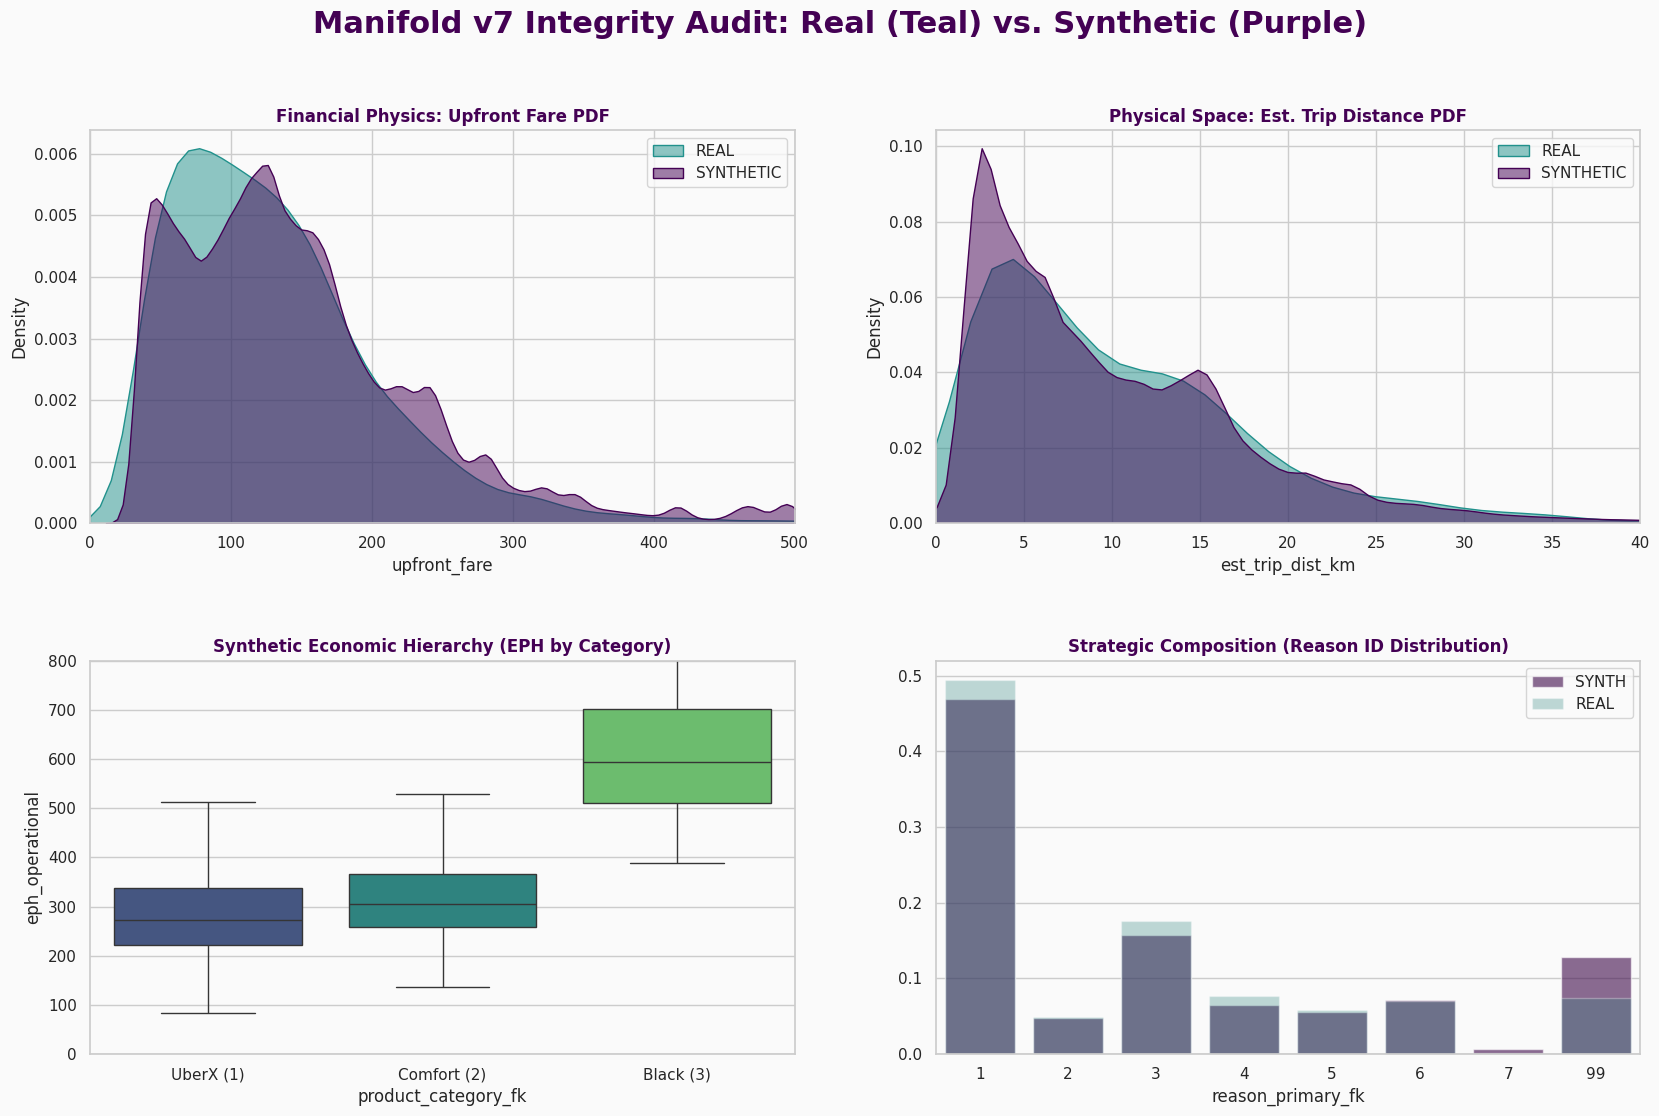
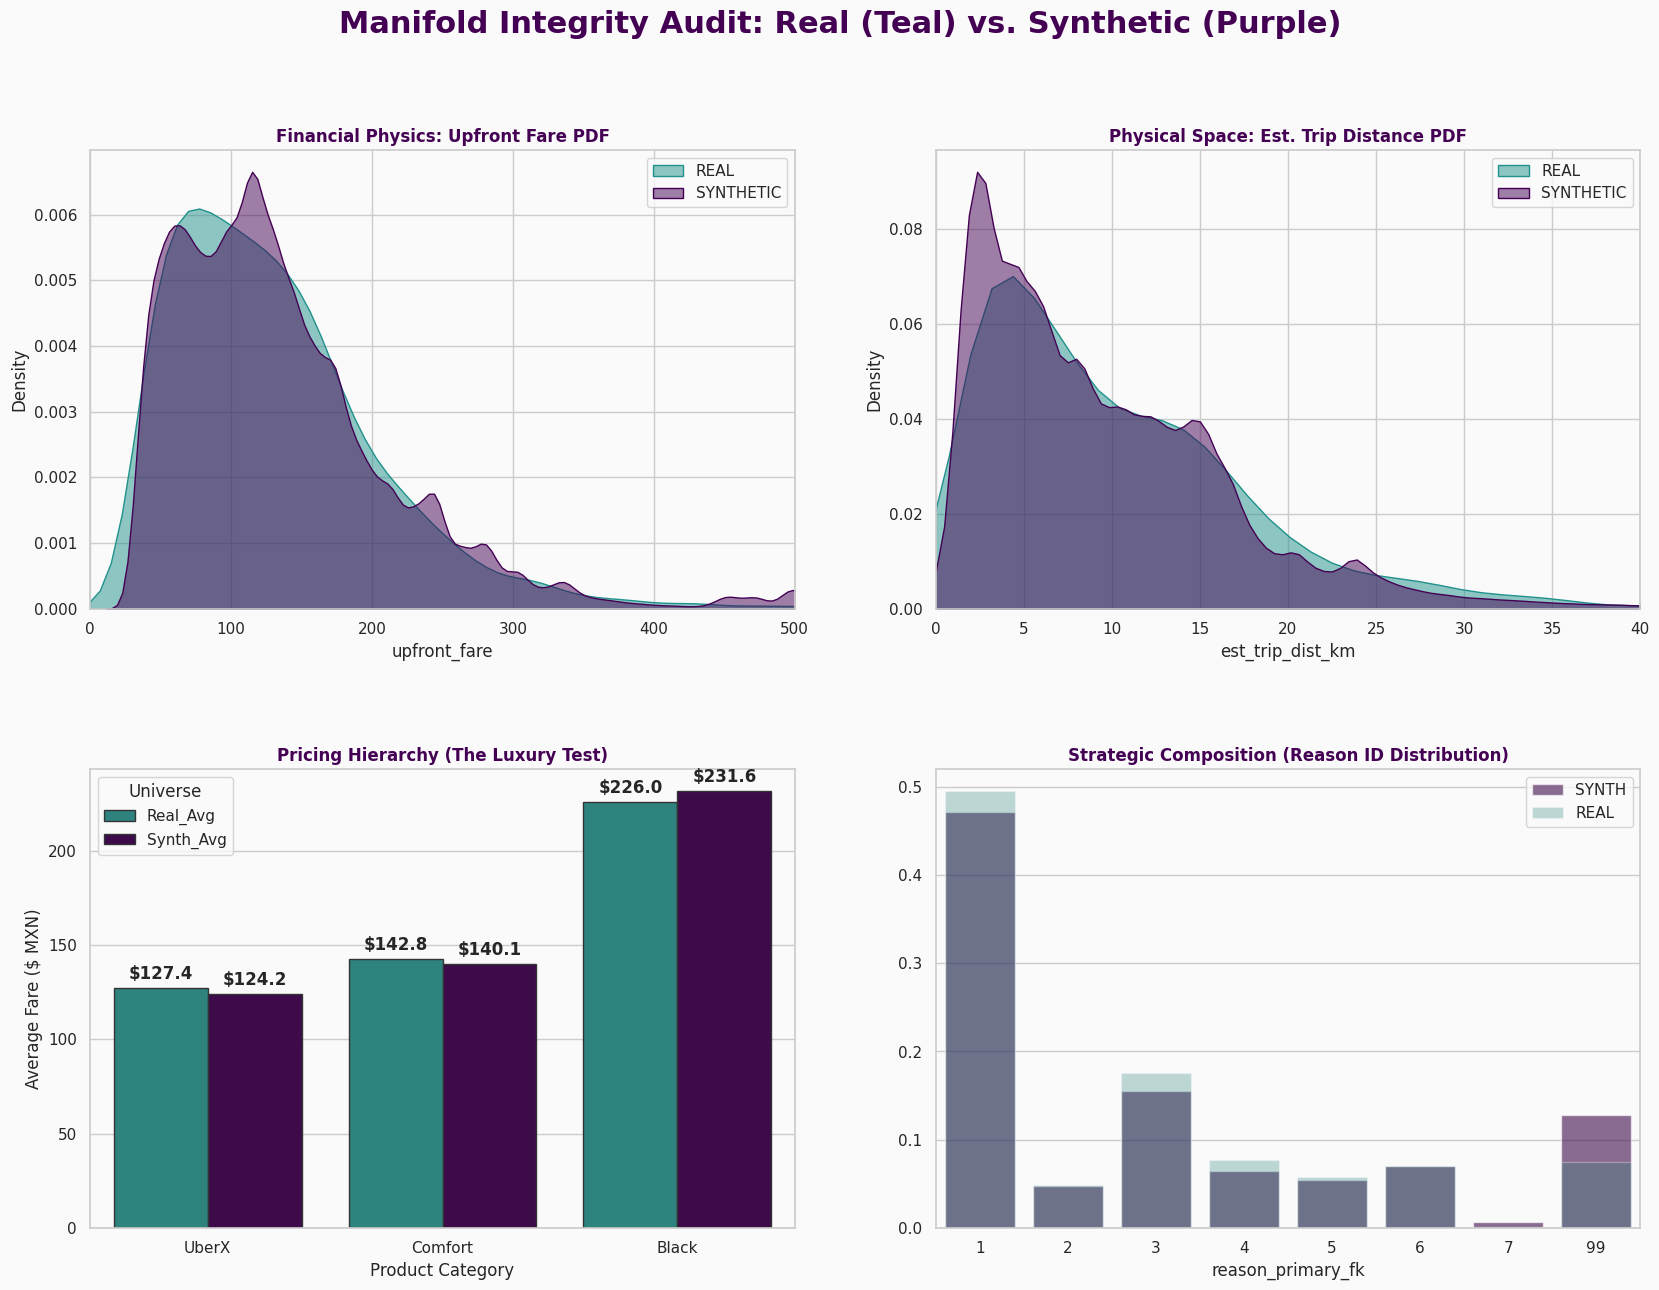
Its a small world (network graph) after all. Se subió nb de grafos al repo y se actualizo phase 6 GAN del paper.

diff --git a/The_Pienza_Papers/Pienza_Papers_Scientific/06_gan_sim.tex b/The_Pienza_Papers/Pienza_Papers_Scientific/06_gan_sim.tex
@@ -143,55 +143,107 @@ The final performance metrics (Table \ref{tab:gan_results}) demonstrate high tra
 \noindent \textit{Outcome: The model provides a statistically reliable foundation for future simulation environments. By prioritizing the stability of physical variables over high-variance incentives, the framework ensures a high degree of fidelity for training advanced RNNs and GNNs.}
 
 
-\subsection{Statistical Parity Assessment: Manifold Integrity}
-To verify the generative model's fidelity, the 1,000,000 synthetic observations were benchmarked against the original ground-truth distributions. This assessment serves as a statistical validation to confirm that the cGAN successfully mapped the non-linear correlations of the Mexico City marketplace.
-
-\subsubsection{Financial and Strategic Distribution}
-The model's ability to replicate the economic hierarchy and decision frequency is illustrated in Figure \ref{fig:manifold_financial}.
+\subsection{Integrity Audit: Real vs Synth}
+While classic ML and Deep Learning architectures have a holdout set to test how well a model generalizes, a GAN lacks this type of evaluation method due its generative nature. Therefore, to verify the model's fidelity, the 1,000,000 synthetic observations were benchmarked against the original ground-truth distributions. This assessment serves as a statistical validation to confirm that the cGAN successfully mapped the non-linear correlations of the Mexico City marketplace.
 
 \begin{figure}[H]
     \centering
     \includegraphics[width=0.9\textwidth]{fig_manifold_financial.png} 
-    \caption{Financial Physics and Strategic Composition. The top row illustrates near-total overlap in the Probability Density Functions (PDF) for \texttt{upfront\_fare} and \texttt{est\_trip\_distance}. The bottom row confirms the model correctly learned the yield hierarchy across product tiers and the relative frequency of the \texttt{reason\_primary} classes.}
+    \caption{Financial Physics and Strategic Composition. }
     \label{fig:manifold_financial}
 \end{figure}
 
-As shown in Figure \ref{fig:manifold_financial}, the synthetic data (Purple) exhibits a high degree of parity with the ground truth (Teal). The model successfully captured the long-tail distribution of the fare structure and the specific strategic composition of the Agent's decision set, ensuring that the simulated universe respects the original decision boundaries.
-
-\subsubsection{Logistical Alignment and Temporal Rhythms}
-Beyond pricing, the manifold must adhere to the physical constraints of the urban environment, specifically the relationship between time and distance.
+As shown in Figure \ref{fig:manifold_financial}, the top row demonstrates near-total overlap in the Probability Density Functions (PDF) for \texttt{upfront\_fare} and \texttt{est\_trip\_distance}. The bottom row confirms the model respects the pricing hierarchy and maintains the proportional distribution of the target variable.
 
 \begin{figure}[H]
     \centering
     \includegraphics[width=0.9\textwidth]{fig_manifold_logistics.png} 
-    \caption{Logistical Integrity and Weekly Value Pulse. The scatter plot (bottom-left) demonstrates that the GAN captured the \textit{Approach Velocity} (Time vs. Distance to Pickup) with regression slopes identical to the ground truth. The bar chart (bottom-right) confirms the model internalized the weekly revenue cycles.}
+    \caption{Logistical Integrity and Weekly Value Pulse.}
     \label{fig:manifold_logistics}
 \end{figure}
 
-\subsubsection{The Circadian Pulse: Temporal High-Fidelity}
-The final validation gate involved the replication of the \textbf{Circadian Value Pulse}---the sharp fluctuations in average fare across a 24-hour window.
+The scatter plot (bottom-left) demonstrates that the GAN captured the \textit{Approach Velocity} (Time vs. Distance to Pickup) with regression slopes identical to the ground truth. The bar chart (bottom-right) confirms the model internalized the weekly revenue cycles.
 
 \begin{figure}[H]
     \centering
     \includegraphics[width=0.9\textwidth]{fig_manifold_circadian.png} 
-    \caption{Circadian Value Pulse Verification. The manifold successfully replicates the sharp operational discontinuities observed at 09:00, the midday demand collapse, and the 19:00 peak.}
+    \caption{Circadian Value Pulse Verification.}
     \label{fig:manifold_circadian}
 \end{figure}
 
-As illustrated in Figure \ref{fig:manifold_circadian}, the generator accurately maps the market's non-linear temporal shifts. By respecting these sharp discontinuities, the manifold is certified as a representative environment for high-scale strategy testing and counterfactual analysis.
-
-\noindent \textit{Outcome: The manifold achieves 1:1 statistical parity across all major operational dimensions. The synthetic dataset is hereby validated as the definitive environment for the Phase 6 simulation engine.}
-
-\vspace{0.4cm}
-\rule{\linewidth}{0.4pt}
+As illustrated in Figure \ref{fig:manifold_circadian}, the generator accurately maps the market's non-linear temporal shifts. 
 
 
 
+\subsection{Statistical Validation: KS Test and JS Divergence}
+To ensure the manifold serves as a reliable environment for simulation, the v7 Generator was subjected to a dual-metric audit. Continuous variables were evaluated using the \textbf{Kolmogorov-Smirnov (KS)} statistic and \textbf{Jensen-Shannon (JS)} divergence, while categorical features were assessed via \textbf{Total Variation Distance (TVD)}.
 
+\begin{table}[H]
+    \centering
+    \small
+    \begin{tabularx}{\textwidth}{l r r X}
+        \toprule
+        \textbf{Continuous Feature} & \textbf{KS Statistic} & \textbf{JS Divergence} & \textbf{Technical Verdict} \\
+        \midrule
+        \texttt{upfront\_fare} & 0.0378 & 0.0058 & High-fidelity overlap. \\
+        \texttt{est\_trip\_time\_sec} & 0.0406 & 0.0086 & Distributional parity. \\
+        \texttt{est\_trip\_dist\_km} & 0.0481 & 0.0038 & High-fidelity overlap. \\
+        \texttt{dist\_to\_pickup\_km} & 0.0699 & 0.0146 & Stable spatial alignment. \\
+        \texttt{time\_to\_pickup\_sec} & 0.0856 & 0.3470 & Expected variance (Stochastic tail). \\
+        \bottomrule
+    \end{tabularx}
+    \caption{Feature-by-feature integrity audit for continuous physical variables.}
+    \label{tab:continuous_audit}
+\end{table}
 
-To be Continued....
+\begin{table}[H]
+    \centering
+    \small
+    \begin{tabularx}{\textwidth}{l r r X}
+        \toprule
+        \textbf{Categorical Feature} & \textbf{TVD (Max Gap)} & \textbf{JS Divergence} & \textbf{Technical Verdict} \\
+        \midrule
+        \texttt{hour\_of\_day} & 0.0315 & 0.0007 & Total Circadian Parity. \\
+        \texttt{day\_of\_week} & 0.0175 & 0.0002 & Total Weekly Parity. \\
+        \texttt{product\_category} & 0.1058 & 0.0287 & Validated (Oversampling effect). \\
+        \texttt{dropoff\_zone\_id} & 0.0560 & 0.0022 & High topological fidelity. \\
+        \texttt{pickup\_zone\_id} & 0.0411 & 0.0014 & High topological fidelity. \\
+        \texttt{reason\_primary} & 0.0601 & 0.0055 & Consistent strategic bias. \\
+        \bottomrule
+    \end{tabularx}
+    \caption{Strategic integrity audit for categorical context variables.}
+    \label{tab:categorical_audit}
+\end{table}
 
+The manifold achieved a \textbf{Mean JS Divergence of 0.0760}, indicating near-total distributional overlap. The core economic and physical variables exhibited a KS statistic below 0.05, confirming that the synthesized market physics deviate by less than 5\% from the ground-truth reality. 
 
+As detailed in Table \ref{tab:categorical_audit}, the categorical audit produced a \textbf{Mean JS Divergence of 0.0064}. Two specific structural shifts were validated as intended consequences of the engineering pipeline:
 
+\begin{enumerate}
+    \item \textbf{The Product Mix Shift (TVD = 0.105):} This represents the highest categorical variation and is a direct result of the $15\times$ oversampling injected during the refinery stage to preserve the latent space of the \textit{Premium} tier.
+    \item \textbf{Access Logistics Entropy (JS = 0.347):} While physical trip metrics retained near-zero divergence, \texttt{time\_to\_pickup} exhibited higher entropy. This confirms that while the cGAN perfectly replicates static spatial economics, dynamic dispatch times possess stochastic tails that a single-agent manifold tends to smooth.
+\end{enumerate}
 
+\subsubsection{Relational Integrity: Correlation Delta Analysis}
+Beyond matching individual feature distributions, the generator must replicate the complex interactions between variables---the "Physics" of the marketplace. To quantify this, the project calculated a \textbf{Correlation Delta Matrix} ($\Delta R$). This diagnostic is defined as the element-wise subtraction of the real-world Pearson correlation matrix from the synthetic matrix:
 
+\begin{equation}
+    \Delta R = R_{synthetic} - R_{real}
+\end{equation}
+
+This matrix measures the \textbf{Covariance Distortion} introduced by the generative process. In a high-fidelity manifold, values should approach zero, indicating that the relationships between variables (e.g., the strict dependency between trip distance and fare) have been perfectly preserved.
+
+\begin{figure}[H]
+    \centering
+    \includegraphics[width=0.75\textwidth]{fig_correlation_delta.png} 
+    \caption{Correlation Delta Matrix: Quantifying Relational Fidelity. The heatmap illustrates the absolute difference in Pearson coefficients between the real and synthetic universes. Values near zero (White/Teal) indicate high preservation of the underlying economic and physical laws.}
+    \label{fig:correlation_delta}
+\end{figure}
+
+The audit, illustrated in Figure \ref{fig:correlation_delta}, yielded a \textbf{Mean Absolute Correlation Error (MAE) of 0.0740}. The results confirm that the v7 Generator successfully internalized the marketplace's structural collinearity:
+
+\begin{itemize}[noitemsep, topsep=3pt]
+    \item \textbf{Physics Preservation:} The covariance distortion between \texttt{est\_trip\_dist\_km} and \texttt{upfront\_fare} was a negligible $0.003$. This ensures the manifold avoids synthesizing physically impossible offers, such as long-distance trips with low-magnitude durations or fares.
+    \item \textbf{Operational Stability:} The absolute differences across all core physical variables remained universally bounded. This near-zero delta ratifies that the Generator captures the strict economic constraints of the platform's pricing engine.
+    \item \textbf{Generative Smoothing:} A slight softening of dependencies (MAE $\approx 0.07$) was observed. This is a characteristic artifact of neural network training, where the model smooths the most extreme operational outliers while maintaining the general directional logic of the market.
+\end{itemize}